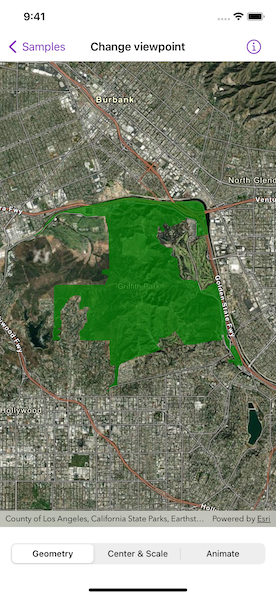
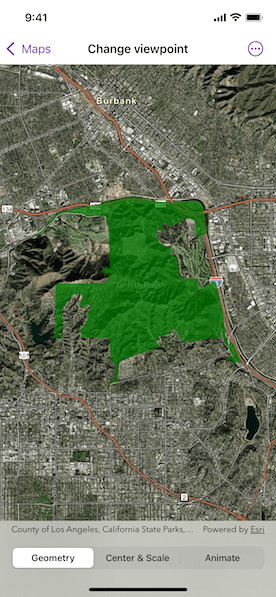
Update screenshots.

diff --git a/Shared/Samples/Change viewpoint/ChangeViewpointView.swift b/Shared/Samples/Change viewpoint/ChangeViewpointView.swift
@@ -43,49 +43,47 @@ struct ChangeViewpointView: View {
     
     var body: some View {
         MapViewReader { mapViewProxy in
-            VStack {
-                MapView(map: model.map, graphicsOverlays: [model.graphicsOverlay])
-                    .onScaleChanged { scale = $0 }
-                    .onVisibleAreaChanged { visibleArea = $0 }
-                    .task(id: viewpointType) {
-                        switch viewpointType {
-                        case .centerAndScale:
-                            await mapViewProxy.setViewpointCenter(model.londonEast, scale: 4e4)
-                        case .geometry:
-                            await mapViewProxy.setViewpointGeometry(
-                                model.griffithParkGeometry,
-                                padding: 50
+            MapView(map: model.map, graphicsOverlays: [model.graphicsOverlay])
+                .onScaleChanged { scale = $0 }
+                .onVisibleAreaChanged { visibleArea = $0 }
+                .task(id: viewpointType) {
+                    switch viewpointType {
+                    case .centerAndScale:
+                        await mapViewProxy.setViewpointCenter(model.londonEast, scale: 4e4)
+                    case .geometry:
+                        await mapViewProxy.setViewpointGeometry(
+                            model.griffithParkGeometry,
+                            padding: 50
+                        )
+                    case .animate:
+                        if let center = visibleArea?.extent.center {
+                            let currentScale = scale
+                            let targetScale = currentScale / 2
+                            // Zoom in at the current location with animation.
+                            let finishedWithoutInterruption = await mapViewProxy.setViewpoint(
+                                Viewpoint(center: center, scale: targetScale),
+                                duration: 5
                             )
-                        case .animate:
-                            if let center = visibleArea?.extent.center {
-                                let currentScale = scale
-                                let targetScale = currentScale / 2
-                                // Zoom in at the current location with animation.
-                                let finishedWithoutInterruption = await mapViewProxy.setViewpoint(
-                                    Viewpoint(center: center, scale: targetScale),
+                            if finishedWithoutInterruption {
+                                // If the zoom in finishes, zoom out with animation.
+                                await mapViewProxy.setViewpoint(
+                                    Viewpoint(center: center, scale: currentScale),
                                     duration: 5
                                 )
-                                if finishedWithoutInterruption {
-                                    // If the zoom in finishes, zoom out with animation.
-                                    await mapViewProxy.setViewpoint(
-                                        Viewpoint(center: center, scale: currentScale),
-                                        duration: 5
-                                    )
-                                }
                             }
                         }
                     }
-                HStack {
-                    Picker("Viewpoint Type", selection: $viewpointType) {
-                        ForEach(ViewpointType.allCases, id: \.self) { mode in
-                            Text(mode.label)
-                        }
-                    }
-                    .pickerStyle(.segmented)
-                    .frame(maxWidth: 540)
-                    .padding()
                 }
-            }
+                .toolbar {
+                    ToolbarItem(placement: .bottomBar) {
+                        Picker("Viewpoint Type", selection: $viewpointType) {
+                            ForEach(ViewpointType.allCases, id: \.self) { mode in
+                                Text(mode.label)
+                            }
+                        }
+                        .pickerStyle(.segmented)
+                    }
+                }
         }
     }
 }
